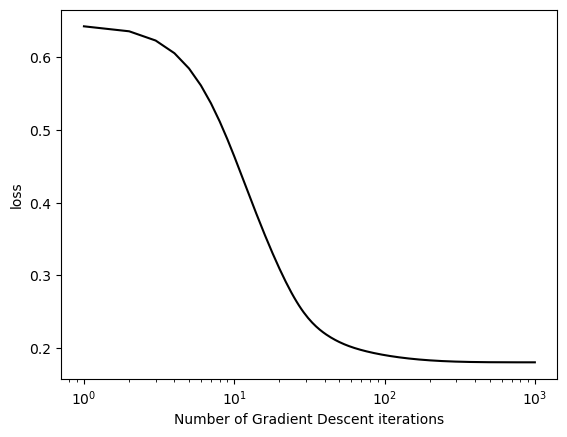
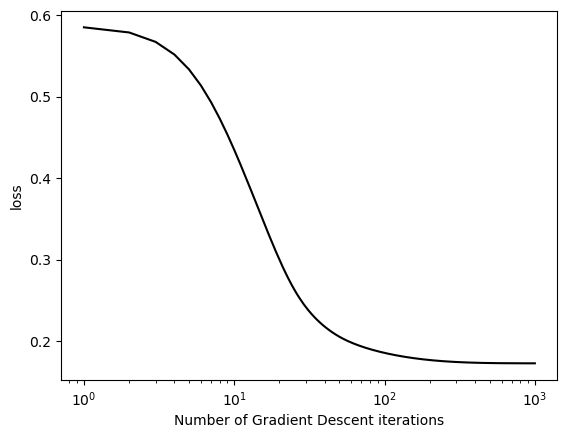
rendered newtons method, requesting help

diff --git a/docs/posts/newtons-method/index.html b/docs/posts/newtons-method/index.html
@@ -238,7 +238,8 @@ window.Quarto = {
 
 
 
-<div id="cell-1" class="cell" data-execution_count="375">
+<p>Newton’s Method for Logistic Regression is implemented in <a href="https://github.com/charliemoore00/charliemoore00.github.io/blob/main/posts/newtons-method/newton.py">newton.py</a></p>
+<div id="cell-2" class="cell" data-execution_count="385">
 <div class="sourceCode cell-code" id="cb1"><pre class="sourceCode python code-with-copy"><code class="sourceCode python"><span id="cb1-1"><a href="#cb1-1" aria-hidden="true" tabindex="-1"></a><span class="op">%</span>load_ext autoreload</span>
 <span id="cb1-2"><a href="#cb1-2" aria-hidden="true" tabindex="-1"></a><span class="op">%</span>autoreload <span class="dv">2</span></span>
 <span id="cb1-3"><a href="#cb1-3" aria-hidden="true" tabindex="-1"></a><span class="im">from</span> newton <span class="im">import</span> LogisticRegression, GradientDescentOptimizer, NewtonOptimizer</span>
@@ -286,7 +287,7 @@ w \gets w - \alpha \mathbf{H}(\mathbf{w})^{-1} \nabla L (\mathbf{w})\;
 <li><code>p_dims</code>: the number of features</li>
 <li><code>noise</code>: the difficulty of the classification problem</li>
 </ul>
-<div id="cell-7" class="cell" data-execution_count="376">
+<div id="cell-8" class="cell" data-execution_count="386">
 <div class="sourceCode cell-code" id="cb3"><pre class="sourceCode python code-with-copy"><code class="sourceCode python"><span id="cb3-1"><a href="#cb3-1" aria-hidden="true" tabindex="-1"></a><span class="kw">def</span> classification_data(n_points <span class="op">=</span> <span class="dv">300</span>, noise <span class="op">=</span> <span class="fl">0.2</span>, p_dims <span class="op">=</span> <span class="dv">2</span>):</span>
 <span id="cb3-2"><a href="#cb3-2" aria-hidden="true" tabindex="-1"></a>    </span>
 <span id="cb3-3"><a href="#cb3-3" aria-hidden="true" tabindex="-1"></a>    y <span class="op">=</span> torch.arange(n_points) <span class="op">&gt;=</span> <span class="bu">int</span>(n_points<span class="op">/</span><span class="dv">2</span>)</span>
@@ -304,7 +305,7 @@ w \gets w - \alpha \mathbf{H}(\mathbf{w})^{-1} \nabla L (\mathbf{w})\;
 <p>We’ll create train and plot methods for both Newton’s method and regular Gradient Descent to show differences.</p>
 <section id="gradient-descent-training" class="level4">
 <h4 class="anchored" data-anchor-id="gradient-descent-training">Gradient Descent Training</h4>
-<div id="cell-10" class="cell" data-execution_count="377">
+<div id="cell-11" class="cell" data-execution_count="387">
 <div class="sourceCode cell-code" id="cb4"><pre class="sourceCode python code-with-copy"><code class="sourceCode python"><span id="cb4-1"><a href="#cb4-1" aria-hidden="true" tabindex="-1"></a><span class="kw">def</span> train_and_plot_gradient_descent(X, y, alpha, beta, iterations<span class="op">=</span><span class="dv">100</span>):</span>
 <span id="cb4-2"><a href="#cb4-2" aria-hidden="true" tabindex="-1"></a>    <span class="co"># initialize a logistic regression and gradient descent optimizer</span></span>
 <span id="cb4-3"><a href="#cb4-3" aria-hidden="true" tabindex="-1"></a>    LR <span class="op">=</span> LogisticRegression() </span>
@@ -328,7 +329,7 @@ w \gets w - \alpha \mathbf{H}(\mathbf{w})^{-1} \nabla L (\mathbf{w})\;
 </section>
 <section id="newtons-method-training" class="level4">
 <h4 class="anchored" data-anchor-id="newtons-method-training">Newton’s Method Training</h4>
-<div id="cell-12" class="cell" data-execution_count="378">
+<div id="cell-13" class="cell" data-execution_count="388">
 <div class="sourceCode cell-code" id="cb5"><pre class="sourceCode python code-with-copy"><code class="sourceCode python"><span id="cb5-1"><a href="#cb5-1" aria-hidden="true" tabindex="-1"></a><span class="kw">def</span> train_and_plot_newton_optimizer(X, y, alpha, iterations<span class="op">=</span><span class="dv">100</span>):</span>
 <span id="cb5-2"><a href="#cb5-2" aria-hidden="true" tabindex="-1"></a>    <span class="co"># initialize a logistic regression and gradient descent optimizer</span></span>
 <span id="cb5-3"><a href="#cb5-3" aria-hidden="true" tabindex="-1"></a>    LR <span class="op">=</span> LogisticRegression() </span>
@@ -352,11 +353,11 @@ w \gets w - \alpha \mathbf{H}(\mathbf{w})^{-1} \nabla L (\mathbf{w})\;
 <section id="experiment-1-when-alpha-is-chosen-appropriately-newtons-method-converges-to-the-correct-choice-of-w." class="level4">
 <h4 class="anchored" data-anchor-id="experiment-1-when-alpha-is-chosen-appropriately-newtons-method-converges-to-the-correct-choice-of-w."><strong>Experiment #1:</strong> When <span class="math inline">\(\alpha\)</span> is chosen appropriately, Newton’s method converges to the correct choice of <strong>w</strong>.</h4>
 <p>First, let’s generate some data:</p>
-<div id="cell-14" class="cell" data-execution_count="379">
+<div id="cell-15" class="cell" data-execution_count="389">
 <div class="sourceCode cell-code" id="cb6"><pre class="sourceCode python code-with-copy"><code class="sourceCode python"><span id="cb6-1"><a href="#cb6-1" aria-hidden="true" tabindex="-1"></a>X_exp, y_exp <span class="op">=</span> classification_data(n_points <span class="op">=</span> <span class="dv">3000</span>, noise <span class="op">=</span> <span class="fl">0.5</span>, p_dims <span class="op">=</span> <span class="dv">2</span>)</span></code><button title="Copy to Clipboard" class="code-copy-button"><i class="bi"></i></button></pre></div>
 </div>
 <p>Then we’ll train and plot our data with an <span class="math inline">\(\alpha\)</span> value of 200:</p>
-<div id="cell-16" class="cell" data-execution_count="380">
+<div id="cell-17" class="cell" data-execution_count="390">
 <div class="sourceCode cell-code" id="cb7"><pre class="sourceCode python code-with-copy"><code class="sourceCode python"><span id="cb7-1"><a href="#cb7-1" aria-hidden="true" tabindex="-1"></a>train_and_plot_newton_optimizer(X_exp, y_exp, <span class="dv">200</span>, iterations <span class="op">=</span> <span class="dv">100</span>)</span></code><button title="Copy to Clipboard" class="code-copy-button"><i class="bi"></i></button></pre></div>
 <div class="cell-output cell-output-display">
 <div>
@@ -371,7 +372,7 @@ w \gets w - \alpha \mathbf{H}(\mathbf{w})^{-1} \nabla L (\mathbf{w})\;
 <section id="experiment-2-under-at-least-some-circumstances-newtons-method-can-converge-much-faster-than-standard-gradient-descent" class="level4">
 <h4 class="anchored" data-anchor-id="experiment-2-under-at-least-some-circumstances-newtons-method-can-converge-much-faster-than-standard-gradient-descent"><strong>Experiment #2:</strong> Under at least some circumstances, Newton’s method can converge <em>much</em> faster than standard gradient descent</h4>
 <p>Let’s train and plot both gradient descent <strong>and</strong> Newton’s method on the same data as before, but on 1000 iterations:</p>
-<div id="cell-19" class="cell" data-execution_count="381">
+<div id="cell-20" class="cell" data-execution_count="391">
 <div class="sourceCode cell-code" id="cb8"><pre class="sourceCode python code-with-copy"><code class="sourceCode python"><span id="cb8-1"><a href="#cb8-1" aria-hidden="true" tabindex="-1"></a><span class="co"># gradient descent</span></span>
 <span id="cb8-2"><a href="#cb8-2" aria-hidden="true" tabindex="-1"></a>train_and_plot_gradient_descent(X_exp, y_exp, <span class="fl">0.1</span>, <span class="fl">0.9</span>, iterations <span class="op">=</span> <span class="dv">1000</span>)</span></code><button title="Copy to Clipboard" class="code-copy-button"><i class="bi"></i></button></pre></div>
 <div class="cell-output cell-output-display">
@@ -382,7 +383,7 @@ w \gets w - \alpha \mathbf{H}(\mathbf{w})^{-1} \nabla L (\mathbf{w})\;
 </div>
 </div>
 </div>
-<div id="cell-20" class="cell" data-execution_count="382">
+<div id="cell-21" class="cell" data-execution_count="392">
 <div class="sourceCode cell-code" id="cb9"><pre class="sourceCode python code-with-copy"><code class="sourceCode python"><span id="cb9-1"><a href="#cb9-1" aria-hidden="true" tabindex="-1"></a><span class="co"># Newton's method</span></span>
 <span id="cb9-2"><a href="#cb9-2" aria-hidden="true" tabindex="-1"></a>train_and_plot_newton_optimizer(X_exp, y_exp, <span class="dv">2000</span>, iterations<span class="op">=</span><span class="dv">1000</span>)</span></code><button title="Copy to Clipboard" class="code-copy-button"><i class="bi"></i></button></pre></div>
 <div class="cell-output cell-output-display">
@@ -398,17 +399,23 @@ w \gets w - \alpha \mathbf{H}(\mathbf{w})^{-1} \nabla L (\mathbf{w})\;
 <section id="experiment-3-if-alpha-is-too-large-newtons-method-fails-to-converge." class="level4">
 <h4 class="anchored" data-anchor-id="experiment-3-if-alpha-is-too-large-newtons-method-fails-to-converge."><strong>Experiment #3:</strong> If <span class="math inline">\(\alpha\)</span> is too large, Newton’s method fails to converge.</h4>
 <p>Let’s generate some data of higher dimensionality:</p>
-<div id="cell-24" class="cell" data-execution_count="383">
-<div class="sourceCode cell-code" id="cb10"><pre class="sourceCode python code-with-copy"><code class="sourceCode python"><span id="cb10-1"><a href="#cb10-1" aria-hidden="true" tabindex="-1"></a>X, y <span class="op">=</span> classification_data(n_points <span class="op">=</span> <span class="dv">3000</span>, noise <span class="op">=</span> <span class="fl">0.5</span>, p_dims <span class="op">=</span> <span class="dv">3</span>)</span>
-<span id="cb10-2"><a href="#cb10-2" aria-hidden="true" tabindex="-1"></a>train_and_plot_newton_optimizer(X, y, <span class="dv">8000</span>, iterations<span class="op">=</span><span class="dv">1000</span>)</span></code><button title="Copy to Clipboard" class="code-copy-button"><i class="bi"></i></button></pre></div>
+<div id="cell-25" class="cell" data-execution_count="409">
+<div class="sourceCode cell-code" id="cb10"><pre class="sourceCode python code-with-copy"><code class="sourceCode python"><span id="cb10-1"><a href="#cb10-1" aria-hidden="true" tabindex="-1"></a>X, y <span class="op">=</span> classification_data(n_points <span class="op">=</span> <span class="dv">100</span>, noise <span class="op">=</span> <span class="fl">0.5</span>, p_dims <span class="op">=</span> <span class="dv">2</span>)</span>
+<span id="cb10-2"><a href="#cb10-2" aria-hidden="true" tabindex="-1"></a>train_and_plot_newton_optimizer(X, y, <span class="dv">2000</span>, iterations<span class="op">=</span><span class="dv">1000</span>)</span></code><button title="Copy to Clipboard" class="code-copy-button"><i class="bi"></i></button></pre></div>
 <div class="cell-output cell-output-error">
 <pre><code>_LinAlgError: linalg.inv: The diagonal element 1 is zero, the inversion could not be completed because the input matrix is singular.</code></pre>
 </div>
 </div>
-
-
 </section>
 </section>
+</section>
+<section id="request-for-help" class="level1">
+<h1>REQUEST FOR HELP:</h1>
+<p>While trying several combinations of different values for n_points, p_dims, and alpha, I am unable to create a plot that doesn’t converge. I am often receiving the following error message:</p>
+<p>**_LinAlgError: linalg.inv: The diagonal element 1 is zero, the inversion could not be completed because the input matrix is singular.**</p>
+<p>Is my implementation of NewtonOptimizer at fault? Or have I just not found a working combination of those variables?</p>
+
+
 </section>
 
 </main> <!-- /main -->

diff --git a/docs/index.html b/docs/index.html
@@ -223,7 +223,7 @@ window.Quarto = {
 
 <div class="quarto-listing quarto-listing-container-default" id="listing-listing">
 <div class="list quarto-listing-default">
-<div class="quarto-post image-right" data-index="0" data-listing-date-sort="1715745600000" data-listing-file-modified-sort="1715894091191" data-listing-date-modified-sort="NaN" data-listing-reading-time-sort="3" data-listing-word-count-sort="439">
+<div class="quarto-post image-right" data-index="0" data-listing-date-sort="1715745600000" data-listing-file-modified-sort="1715895683093" data-listing-date-modified-sort="NaN" data-listing-reading-time-sort="3" data-listing-word-count-sort="516">
 <div class="thumbnail">
 <p><a href="./posts/newtons-method/index.html" class="no-external"></a></p><a href="./posts/newtons-method/index.html" class="no-external">
 <p><img src="./posts/newtons-method/logistic.png" class="thumbnail-image"></p>
